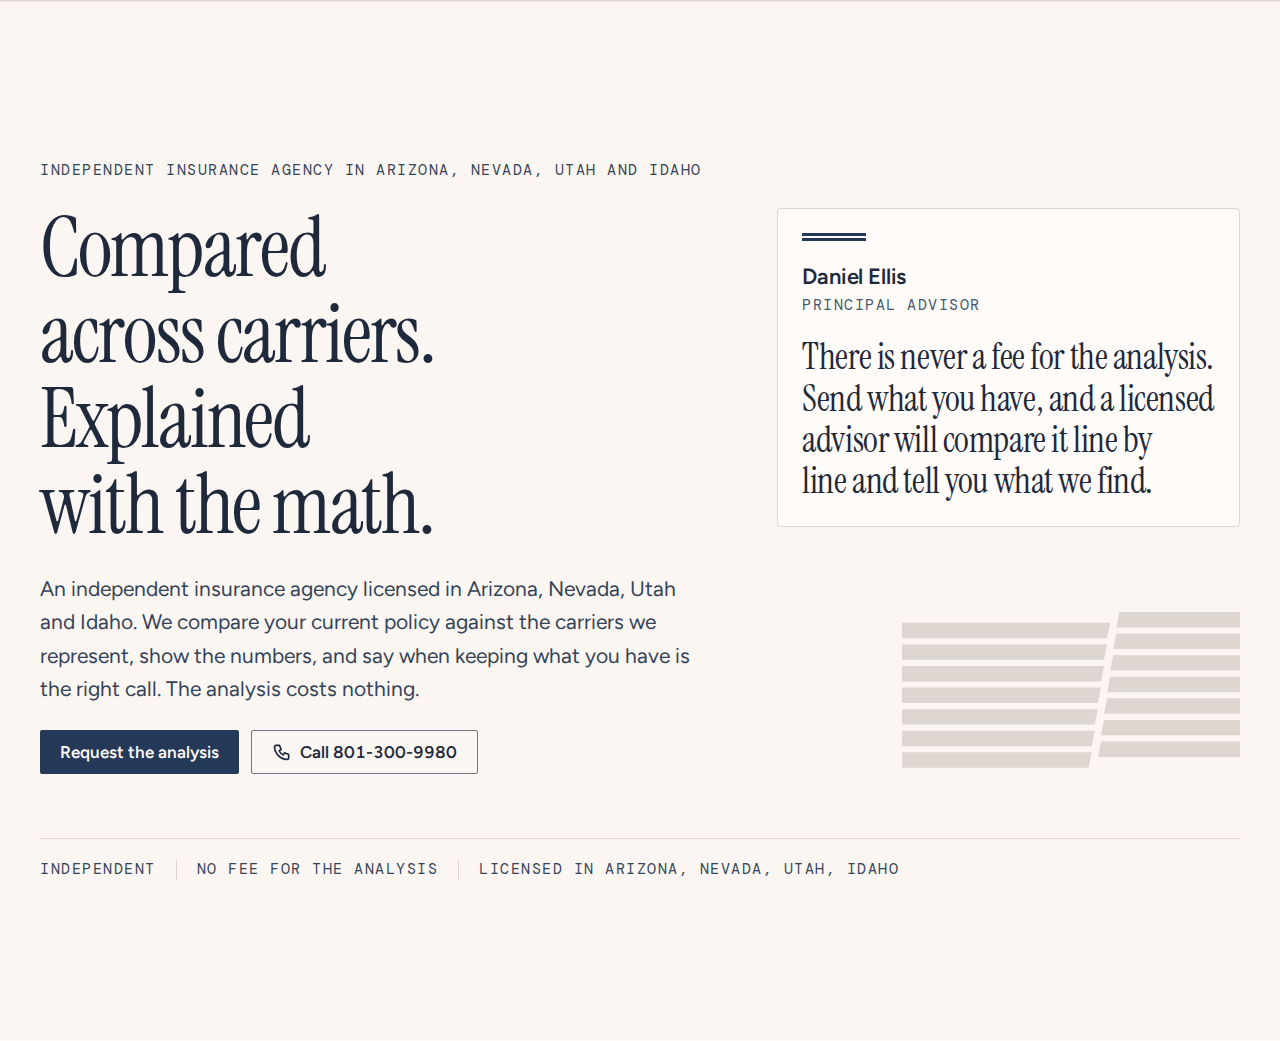
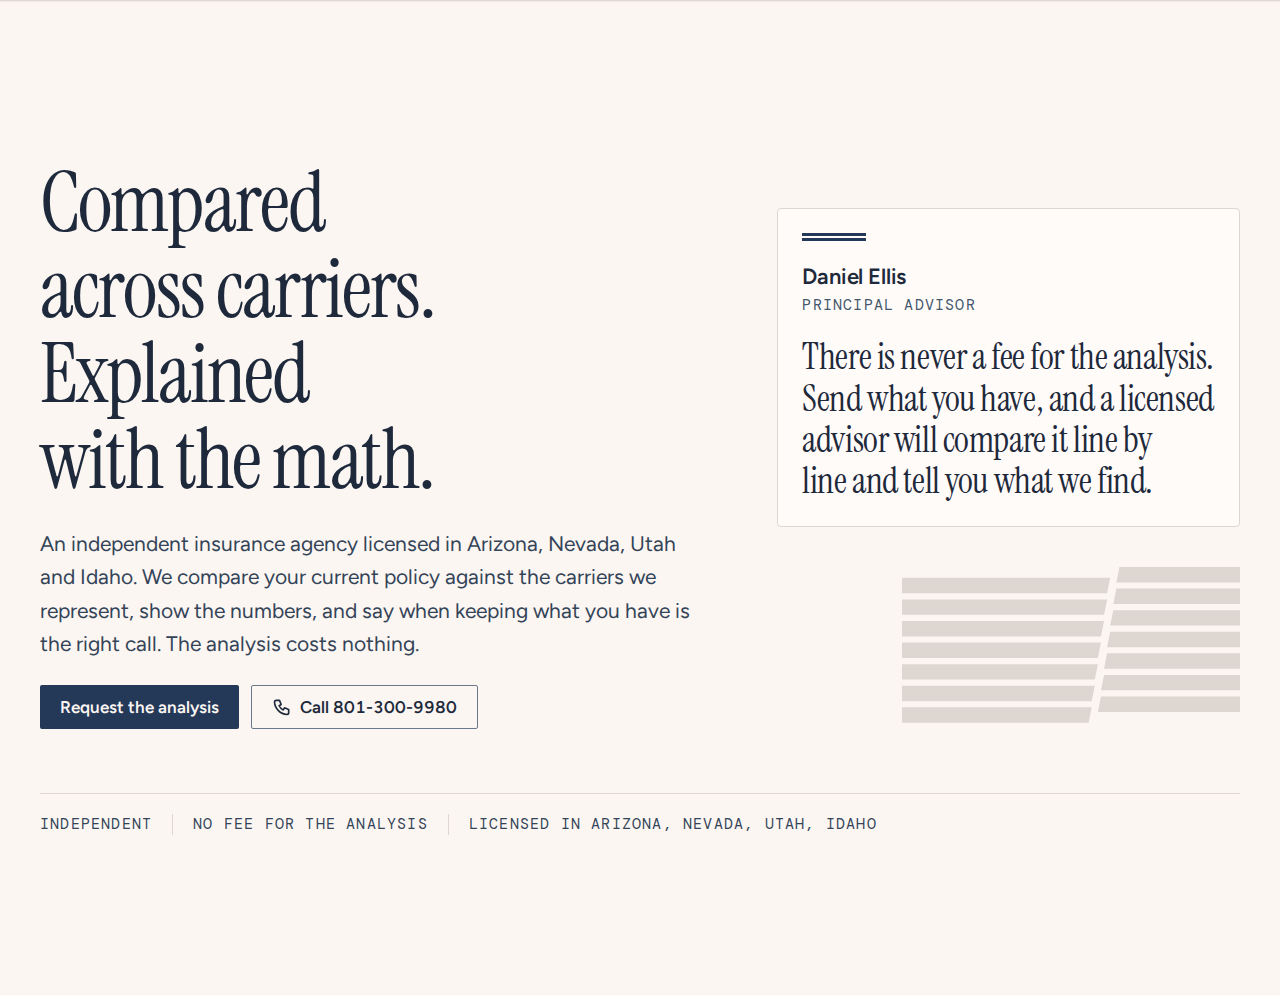
fix(home): review notes — inverse links, label tracking, hero eyebrow
Links on an inverse surface now keep their underline (`[data-inverse]
.ui-link`), so the distinction from the copy around them is not carried by
colour alone — 1.4.1, regardless of ratio. They sit at ink-inverse, 13.63:1,
which is brighter than the 10.20:1 copy rather than dimmer; brand-300, the
tint I had measured for the FAQ band, is 7.59:1 and is ruled out in the
comment. The footer's logo link is exempt: it wraps an image, and an
underline under the lockup is not a link affordance.

Label tracking 0.1em → 0.08em. The 0.1em was chosen for a 12px label; at
15px it was heavy enough to read as a heading. The eyebrow now measures 15px
/ 1.2px tracking / ink-muted under a 52px heading — subordinate by size,
weight and ink, so no further change was needed.

The hero eyebrow is gone rather than reworded. It said what the lede and the
trust row already said, and a shorter version would have duplicated the trust
row instead. The H1 leads the page; eyebrows stay on the bands below, where
they label a section.

Claude-Session: https://claude.ai/code/session_01FWiMzrBK6sfaN7NrtD5Jud

diff --git a/desert-peak-brand/brand/brand-sheet.html b/desert-peak-brand/brand/brand-sheet.html
@@ -3,7 +3,7 @@
 <head>
 <meta charset="utf-8">
 <meta name="viewport" content="width=device-width, initial-scale=1">
-<title>Desert Peak Insurance — Brand Sheet v2.2.0</title>
+<title>Desert Peak Insurance — Brand Sheet v2.3.0</title>
 <style>
 /* ---- fonts (embedded; no network) ---- */
 @font-face {
@@ -65,7 +65,7 @@
   font-display: swap;
 }
 /* ---- tokens (generated) ---- */
-/* GENERATED from brand/design-tokens.json (v2.2.0) by scripts/build-tokens.ts. Do not edit by hand. */
+/* GENERATED from brand/design-tokens.json (v2.3.0) by scripts/build-tokens.ts. Do not edit by hand. */
 
 :root {
   color-scheme: light;
@@ -281,7 +281,7 @@
   --dp-text-label-family: var(--dp-font-mono);
   --dp-text-label-size: 0.9375rem;
   --dp-text-label-line-height: 1.4;
-  --dp-text-label-letter-spacing: 0.1em;
+  --dp-text-label-letter-spacing: 0.08em;
   --dp-text-label-weight: 400;
   --dp-text-stat-family: var(--dp-font-mono);
   --dp-text-stat-size: clamp(2rem, 1.4rem + 2.4vw, 3rem);
@@ -496,7 +496,7 @@ tr.fail td { background: var(--dp-critical-surface); color: var(--dp-critical-in
 <div class="wrap">
 
 <header>
-  <p class="meta tab">Brand sheet · Direction 1, Strata · tokens v2.2.0 · generated from <code>design-tokens.json</code></p>
+  <p class="meta tab">Brand sheet · Direction 1, Strata · tokens v2.3.0 · generated from <code>design-tokens.json</code></p>
   <h1>Desert Peak Insurance</h1>
   <p class="lede">The complete visual system on one page for sign-off: logo variants, colour ramps with contrast ratios, the type scale in use, every control state, a content block and a comparison table. Everything on this page is drawn from the token file; nothing here is hand-coloured.</p>
 </header>
@@ -640,7 +640,7 @@ tr.fail td { background: var(--dp-critical-surface); color: var(--dp-critical-in
 <div class="ts"><div class="ts-meta"><code>subhead</code><span class="tab">NaNpx / 1.28 / -0.008em</span><span>Source Serif 4 600</span></div><div class="ts-sample" style="font-family:var(--dp-font-text);font-size:clamp(1.125rem, 1.05rem + 0.3vw, 1.375rem);line-height:1.28;letter-spacing:-0.008em;font-weight:600;">18px→22px, fluid. Card and item titles (h3) in the editorial system.</div></div>
 <div class="ts"><div class="ts-meta"><code>copy</code><span class="tab">17px / 1.7 / 0</span><span>Source Serif 4 400</span></div><div class="ts-sample" style="font-family:var(--dp-font-text);font-size:1.0625rem;line-height:1.7;letter-spacing:0;font-weight:400;">Body paragraphs in the editorial system. The floor for any paragraph, disclosures included.</div></div>
 <div class="ts"><div class="ts-meta"><code>meta</code><span class="tab">15px / 1.6 / 0</span><span>Source Serif 4 400</span></div><div class="ts-sample" style="font-family:var(--dp-font-text);font-size:0.9375rem;line-height:1.6;letter-spacing:0;font-weight:400;">Captions and supporting metadata. Never a paragraph.</div></div>
-<div class="ts"><div class="ts-meta"><code>label</code><span class="tab">15px / 1.4 / 0.1em</span><span>Source Serif 4 400</span></div><div class="ts-sample" style="font-family:var(--dp-font-mono);font-size:0.9375rem;line-height:1.4;letter-spacing:0.1em;font-weight:400;">Uppercase eyebrows, indices and tags. DM Mono. Nothing on this site is set below 15px.</div></div>
+<div class="ts"><div class="ts-meta"><code>label</code><span class="tab">15px / 1.4 / 0.08em</span><span>Source Serif 4 400</span></div><div class="ts-sample" style="font-family:var(--dp-font-mono);font-size:0.9375rem;line-height:1.4;letter-spacing:0.08em;font-weight:400;">15px, 0.08em. Uppercase eyebrows, indices and tags. DM Mono. Nothing on this site is set below 15px; the tracking is lower than a 12px label would take because at this size 0.1em competes with the heading under it.</div></div>
 <div class="ts"><div class="ts-meta"><code>stat</code><span class="tab">NaNpx / 1.05 / -0.02em</span><span>Source Serif 4 400</span></div><div class="ts-sample" style="font-family:var(--dp-font-mono);font-size:clamp(2rem, 1.4rem + 2.4vw, 3rem);line-height:1.05;letter-spacing:-0.02em;font-weight:400;">32px→48px, fluid. Step indices and figures. Tabular numerals.</div></div>
 <div class="ts"><div class="ts-meta"><code>tabular figures</code><span>font-variant-numeric</span></div><div class="ts-sample tab" style="font-family:var(--dp-font-sans)">$1,000,000 / $2,000,000 aggregate · $500 deductible · 1.2 % · 11/30/2026<br><span style="font-family:var(--dp-font-serif)">$1,000,000 / $2,000,000 aggregate · $500 deductible · 1.2 % · 11/30/2026</span></div></div>
 
@@ -703,7 +703,7 @@ tr.fail td { background: var(--dp-critical-surface); color: var(--dp-critical-in
 <p class="meta" style="margin-top:var(--dp-space-4)">Radius by role: <code>control</code> 2px, <code>surface</code> 4px, <code>pill</code> for status dots and counters only. Motion: fast 120ms, base 200ms, slow 320ms, deliberate 480ms on <code>cubic-bezier(0.2, 0, 0, 1)</code>; all durations drop to 0ms under <code>prefers-reduced-motion</code>.</p>
 
 <footer style="margin-top:var(--dp-space-16);color:var(--dp-ink-muted);font-size:var(--dp-text-caption-size)">
-  Desert Peak Insurance brand sheet, tokens v2.2.0. Generated by <code>scripts/build-tokens.ts</code>. Fonts: Archivo and Source Serif 4, SIL Open Font License 1.1 (see LICENSES.md).
+  Desert Peak Insurance brand sheet, tokens v2.3.0. Generated by <code>scripts/build-tokens.ts</code>. Fonts: Archivo and Source Serif 4, SIL Open Font License 1.1 (see LICENSES.md).
 </footer>
 </div>
 </body>

diff --git a/src/components/site/footer.tsx b/src/components/site/footer.tsx
@@ -18,15 +18,15 @@ export async function Footer() {
   const states = orderStates(allStates);
   const col = "grid content-start gap-2 font-sans text-small";
   const head = "mb-1 font-sans text-small font-semibold text-ink-inverse";
-  const link = "ui-link text-ink-inverse hover:underline";
+  const link = "ui-link text-ink-inverse";
   const groups = GROUPS.map((g) => ({ ...g, ...groupProducts(products, g.key) }));
   const address = site.address && [site.address.street, site.address.city, site.address.zip].some((v) => v && !hasTodo(v)) ? site.address : null;
   const year = new Date().getFullYear();
   return (
-    <footer className="mt-16 bg-logo-ground-inverse text-ink-inverse [overflow-wrap:anywhere] print:hidden">
+    <footer data-inverse className="mt-16 bg-logo-ground-inverse text-ink-inverse [overflow-wrap:anywhere] print:hidden">
       <div className="mx-auto grid max-w-measure-page gap-10 px-4 py-12 md:grid-cols-3 lg:grid-cols-[2fr_1fr_1fr_1fr_1fr_1fr] md:px-8">
         <div className="grid content-start gap-4 md:col-span-3 lg:col-span-1">
-          <Link href="/" className="ui-link w-fit py-2" aria-label="Desert Peak Insurance, home"><Lockup reversed height={56} lazy /></Link>
+          <Link href="/" className="ui-link w-fit py-2 no-underline" aria-label="Desert Peak Insurance, home"><Lockup reversed height={56} lazy /></Link>
           <div className="grid gap-1 font-sans text-small">
             {site.phoneHref ? <a href={site.phoneHref} className={`${link} tabular`} data-contact>{site.phone}</a> : null}
             {site.email ? <a href={`mailto:${site.email}`} className={link}>{site.email}</a> : null}

diff --git a/desert-peak-brand/brand/dist/tokens.ts b/desert-peak-brand/brand/dist/tokens.ts
@@ -1,7 +1,7 @@
-/* GENERATED from brand/design-tokens.json (v2.2.0) by scripts/build-tokens.ts. Do not edit by hand. */
+/* GENERATED from brand/design-tokens.json (v2.3.0) by scripts/build-tokens.ts. Do not edit by hand. */
 /** Typed token export. Prefer `semantic.*.css` in components; `hex` exists for places CSS variables cannot reach (email, canvas, PDF, CMS admin previews). */
 export const tokens = {
-  "version": "2.2.0",
+  "version": "2.3.0",
   "primitives": {
     "brand": {
       "50": {
@@ -727,9 +727,9 @@ export const tokens = {
         "family": "mono",
         "fontSize": "0.9375rem",
         "lineHeight": 1.4,
-        "letterSpacing": "0.1em",
+        "letterSpacing": "0.08em",
         "fontWeight": 400,
-        "description": "15px. Uppercase eyebrows, indices and tags. DM Mono. Nothing on this site is set below 15px."
+        "description": "15px, 0.08em. Uppercase eyebrows, indices and tags. DM Mono. Nothing on this site is set below 15px; the tracking is lower than a 12px label would take because at this size 0.1em competes with the heading under it."
       },
       "stat": {
         "family": "mono",

diff --git a/app/(frontend)/globals.css b/app/(frontend)/globals.css
@@ -118,6 +118,10 @@
   /* Header lockup height from the logo tokens: 40 px on phones, 48 px from the md breakpoint (768 px, no breakpoint token exists). */
   .lockup-header { height: var(--dp-logo-header-mobile); }
   @media (min-width: 768px) { .lockup-header { height: var(--dp-logo-header-desktop); } }
+  /* On an inverse surface a UI link keeps its underline: it sits at ink-inverse, the same brightness as the copy around
+     it, so colour is not carrying the distinction on its own (WCAG 1.4.1). Anything dimmer than the body ink is banned
+     here — brand-300 measures 7.59:1 on surface-inverse against 10.20:1 for the copy, which reads as a disabled link. */
+  [data-inverse] .ui-link { text-decoration: underline; text-underline-offset: 3px; }
   /* UI links (nav, lists, cards): 24 px minimum target (WCAG 2.2), underline on hover only. Links inside prose are not ui-links. */
   .ui-link { text-decoration: none; display: inline-flex; align-items: center; min-height: var(--dp-space-6); }
   .ui-link:hover { text-decoration: underline; }

diff --git a/src/components/site/home.tsx b/src/components/site/home.tsx
@@ -45,12 +45,10 @@ export function Hero({ site, states, headline, lede }: { site: SiteSetting; stat
   const advisor = site.advisor;
   const photo = advisor?.photo && typeof advisor.photo === "object" && advisor.photo.url ? advisor.photo : null;
   const names = orderStates(states).map((s) => s.name);
-  const stateList = names.length > 1 ? `${names.slice(0, -1).join(", ")} and ${names[names.length - 1]}` : names[0] ?? "";
   const facts = ["Independent", "No fee for the analysis", `Licensed in ${names.join(", ")}`];
   return (
     <section className="band shell grid gap-band-gap md:grid-cols-12" aria-labelledby="hero-h">
       <div className="grid content-start gap-6 md:col-span-7">
-        <p className="eyebrow text-ink-secondary">Independent insurance agency in {stateList}</p>
         {/* Not revealed: this is the LCP element and must paint immediately. */}
         <h1 id="hero-h" className="display-type text-display-xl text-ink">
           {sentences(headline).map((line) => <span key={line} className="block">{line}</span>)}

diff --git a/desert-peak-brand/brand/dist/tokens.css b/desert-peak-brand/brand/dist/tokens.css
@@ -1,4 +1,4 @@
-/* GENERATED from brand/design-tokens.json (v2.2.0) by scripts/build-tokens.ts. Do not edit by hand. */
+/* GENERATED from brand/design-tokens.json (v2.3.0) by scripts/build-tokens.ts. Do not edit by hand. */
 
 :root {
   color-scheme: light;
@@ -214,7 +214,7 @@
   --dp-text-label-family: var(--dp-font-mono);
   --dp-text-label-size: 0.9375rem;
   --dp-text-label-line-height: 1.4;
-  --dp-text-label-letter-spacing: 0.1em;
+  --dp-text-label-letter-spacing: 0.08em;
   --dp-text-label-weight: 400;
   --dp-text-stat-family: var(--dp-font-mono);
   --dp-text-stat-size: clamp(2rem, 1.4rem + 2.4vw, 3rem);

diff --git a/desert-peak-brand/brand/dist/tailwind-preset.ts b/desert-peak-brand/brand/dist/tailwind-preset.ts
@@ -1,4 +1,4 @@
-/* GENERATED from brand/design-tokens.json (v2.2.0) by scripts/build-tokens.ts. Do not edit by hand. */
+/* GENERATED from brand/design-tokens.json (v2.3.0) by scripts/build-tokens.ts. Do not edit by hand. */
 /**
  * Tailwind preset: semantic roles -> utility names. Every value is a CSS variable from tokens.css,
  * so dark mode is a token swap, not a rebuild. The default colour palette is replaced (not extended)

diff --git a/desert-peak-brand/brand/dist/theme.css b/desert-peak-brand/brand/dist/theme.css
@@ -1,4 +1,4 @@
-/* GENERATED from brand/design-tokens.json (v2.2.0) by scripts/build-tokens.ts. Do not edit by hand. */
+/* GENERATED from brand/design-tokens.json (v2.3.0) by scripts/build-tokens.ts. Do not edit by hand. */
 /* Tailwind v4. Import after tokens.css:  @import "@desert-peak/brand/tokens.css"; @import "@desert-peak/brand/theme.css"; */
 
 @theme inline {

diff --git a/desert-peak-brand/brand/dist/fonts.css b/desert-peak-brand/brand/dist/fonts.css
@@ -1,4 +1,4 @@
-/* GENERATED from brand/design-tokens.json (v2.2.0) by scripts/build-tokens.ts. Do not edit by hand. */
+/* GENERATED from brand/design-tokens.json (v2.3.0) by scripts/build-tokens.ts. Do not edit by hand. */
 /* Self-hosted, Latin-subset variable fonts. Licenses: brand/LICENSES.md */
 
 @font-face {

diff --git a/desert-peak-brand/brand/CONTRAST-REPORT.md b/desert-peak-brand/brand/CONTRAST-REPORT.md
@@ -1,6 +1,6 @@
 # Contrast report
 
-Generated by `scripts/audit-contrast.ts` from `design-tokens.json` v2.2.0. WCAG 2.2 contrast ratios computed from sRGB relative luminance. This file is a build artefact; if it says FAIL, the token set is not done.
+Generated by `scripts/audit-contrast.ts` from `design-tokens.json` v2.3.0. WCAG 2.2 contrast ratios computed from sRGB relative luminance. This file is a build artefact; if it says FAIL, the token set is not done.
 
 ## Semantic pairings
 
